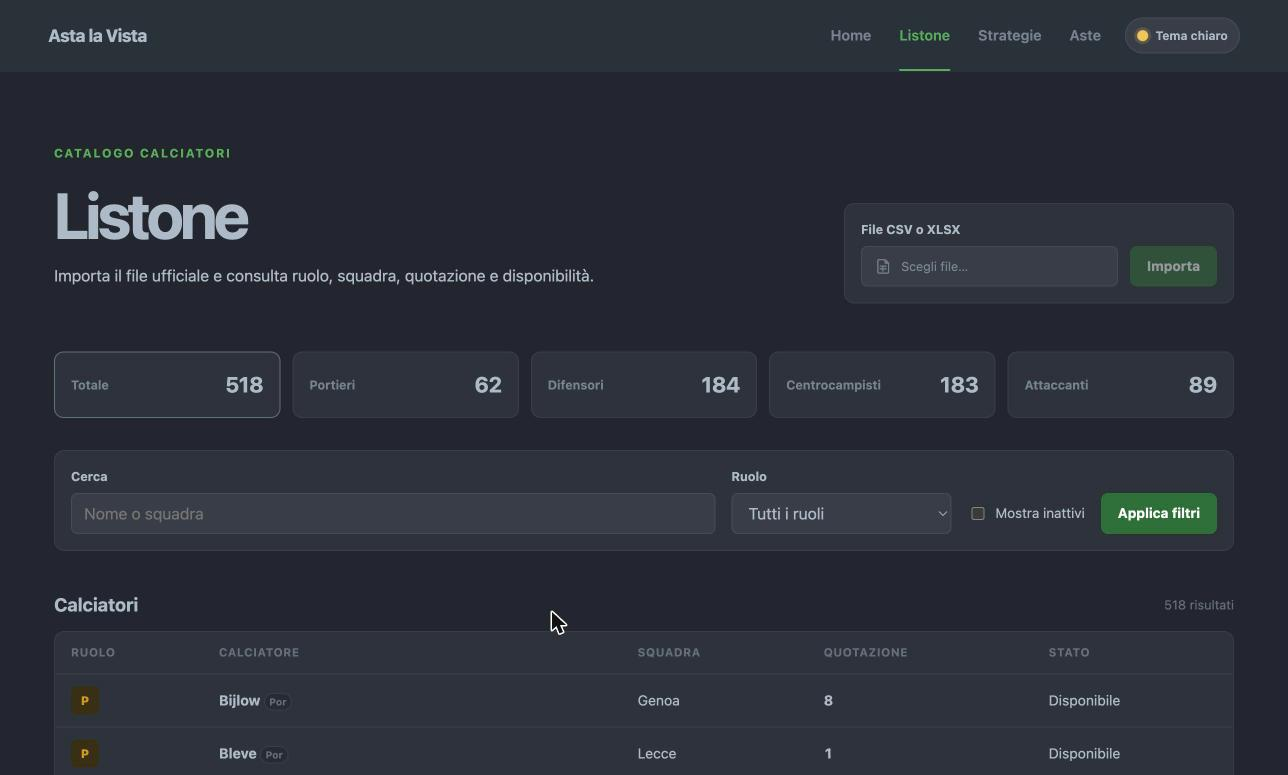
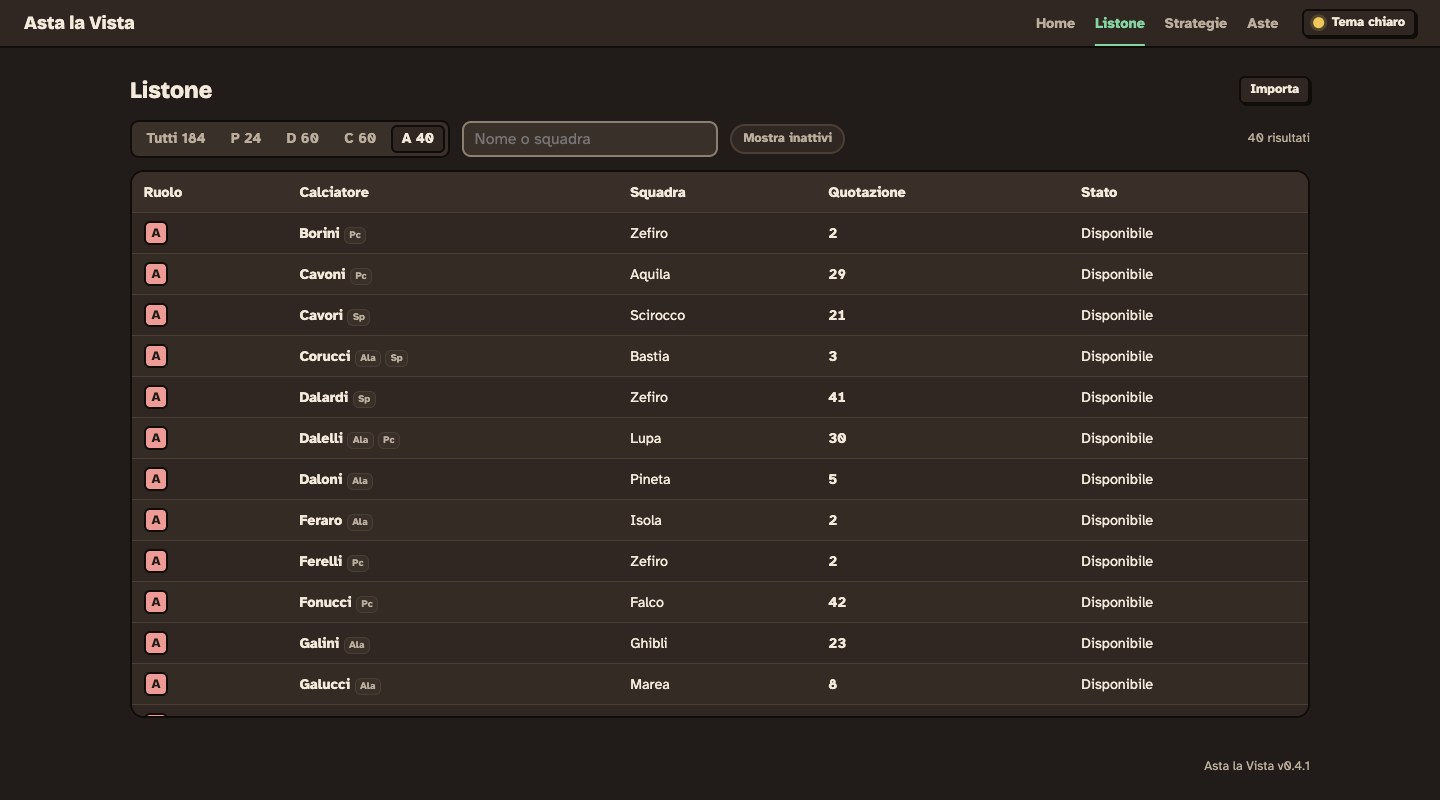
Refresh the screenshots and document the interface and the shortcuts
Retake the three screenshots at 1440x800 with invented data, add one of the
shortcuts panel, describe the current screens in the README and add a
keyboard shortcuts section (the `?` panel has no button, only the key).

diff --git a/README.md b/README.md
@@ -17,19 +17,24 @@ The user interface is in Italian.
 ## Features
 
 - **Player list (Listone)**: import the official fantacalcio.it file and keep track of every
-  player's role, team, price and availability.
-- **Strategies**: create custom global tiers (colour, order, maximum spending percentage) and
-  assign each role's players to them, so you always know at a glance whom to buy and for how much.
-- **Live auctions**: follow every participant's remaining credits, free slots and squad in real
-  time while you record purchases. Your tiers stay visible, so you can see who has already been
-  taken. A 360-degree view of each role shows the players already bought and those still
-  available to call.
+  player's role, team, quotation and availability. Filter by role (with the counts in the tabs),
+  search by name or team and sort by column.
+- **Strategies**: create custom global tiers (colour, order) and assign each role's players to
+  them by dragging, or with the keyboard. For each player you can add a note and a maximum
+  spending percentage, shown in credits too, so you always know at a glance whom to buy and for
+  how much.
+- **Live auctions**: the teams sit on top of the page, with every participant's credits, maximum
+  bid, free slots and roster. A call bar takes the player being called, the winner and the price,
+  and below it you see your tiers (the players already taken stay in place, greyed out and crossed
+  out) or the players still available. A purchase registry lets you correct or cancel a purchase.
+- **Keyboard first**: calling a player and recording the purchase takes only the keyboard, and
+  [every shortcut](#keyboard-shortcuts) is one `?` away.
 - **Final report**: when the auction ends, download an HTML summary. It opens in any browser,
   with no server or internet connection.
 
 <p align="center">
-  <img src="assets/screenshots/strategies.jpg" alt="Tier management" width="49%" />
-  <img src="assets/screenshots/live-auction.jpg" alt="Auction in progress" width="49%" />
+  <img src="assets/screenshots/strategies.jpg" alt="Strategy editor, with the players without a tier on the left and the tiers on the right" width="49%" />
+  <img src="assets/screenshots/live-auction.jpg" alt="An auction in progress, with the teams, the call bar and the tiers" width="49%" />
 </p>
 
 There is also a dark theme, for auctions that run late into the night (we know a thing or two
@@ -38,6 +43,47 @@ about that):
 <p align="center">
   <img src="assets/screenshots/dark-theme.jpg" alt="Player list in the dark theme" width="70%" />
 </p>
+
+## Keyboard shortcuts
+
+Press `?` to see the shortcuts of the page you are on. There is no button for it, only the key.
+
+<p align="center">
+  <img src="assets/screenshots/shortcuts.jpg" alt="The keyboard shortcuts panel, open on an auction" width="70%" />
+</p>
+
+The keys below are the macOS ones. On Windows, `⌘` is `Ctrl` and `⌥` is `Alt`. The keys with
+a single letter or digit only work while you are not typing in a field.
+
+**Auction**
+
+| Keys | What it does |
+|---|---|
+| `⌘K` or `/` | Go to the player search |
+| `↑` `↓` and `⏎` | Move through the results and call the highlighted player |
+| `⌘⏎` | Go to the winner field |
+| `⏎` in the winner field | Choose the highlighted participant and go to the price |
+| `⏎` in the price field | Record the purchase |
+| `Esc` | Drop the player being called |
+| `P` `D` `C` `A` | Show goalkeepers, defenders, midfielders or forwards |
+| `⌥1` `⌥2` | Show the tiers or the free players |
+| `⌘J` | Open or close the purchase registry |
+| `⌘Z` | Cancel the last purchase, after asking you to confirm |
+
+A player can be called and recorded with the keyboard alone: `⌘K`, the name, `⏎`, `⌘⏎`, the
+winner, `⏎`, the price and `⏎`.
+
+**Strategy**
+
+| Keys | What it does |
+|---|---|
+| `↑` `↓`, `Home` `End` | Move through a list of players (with `⇧`, extend the selection) |
+| `Space` | Add or remove the focused player from the selection |
+| `⏎` | Open the details of the focused player |
+| `1`-`9` | Move the selected players (or the focused one) to that tier |
+| `0` | Take them out of their tier |
+| `Esc` | Clear the selection |
+| `←` `→` on a tier's grip | Move the tier |
 
 ## Why
 
@@ -286,8 +332,8 @@ from fantacalcio.it and import it once. You can import it again whenever it chan
 
 ### Importing it
 
-1. Open the **Listone** section of the app.
-2. Choose the file and click **Importa**.
+1. Open the **Listone** section of the app and click **Importa**.
+2. Choose the file and click **Importa** again.
 3. A message tells you how many players were added, updated or deactivated, and how many changed
    role. The counts per role are shown right below it, so you can check them at a glance.
 
@@ -298,7 +344,7 @@ transfer market. Players are matched by their `Id`, so nothing already set up is
 
 - new players are added, and existing ones get their name, team, role and quotation updated;
 - players missing from the new file are **deactivated**, not deleted. They disappear from the
-  list, unless you tick **Mostra inattivi**;
+  list, unless you turn on **Mostra inattivi**;
 - if a player changed role, the strategies that contain them follow the new role;
 - if an auction is in progress, the app asks you to confirm before importing.
 
@@ -465,8 +511,9 @@ The code is in `backend/src/asta_la_vista/entrypoints/desktop/`, and the build r
    using the auction's starting budget.
 3. Create the auction, with credits, slots, participants and, optionally, a strategy.
 4. Start the auction and record each purchase. The screen updates every participant's remaining
-   credits, maximum bid, slots and squad. The player panel lets you filter by role, sort by tier
-   or price, and pick the next player to call.
+   credits, maximum bid, slots and squad. Pick the next player from the search or from your tiers
+   (or from the free players, which you can sort by quotation, tier or name), then enter the
+   winner and the price.
 5. When the auction ends, download the report in HTML format. It opens in any browser.
 
 ## Releasing a new version
